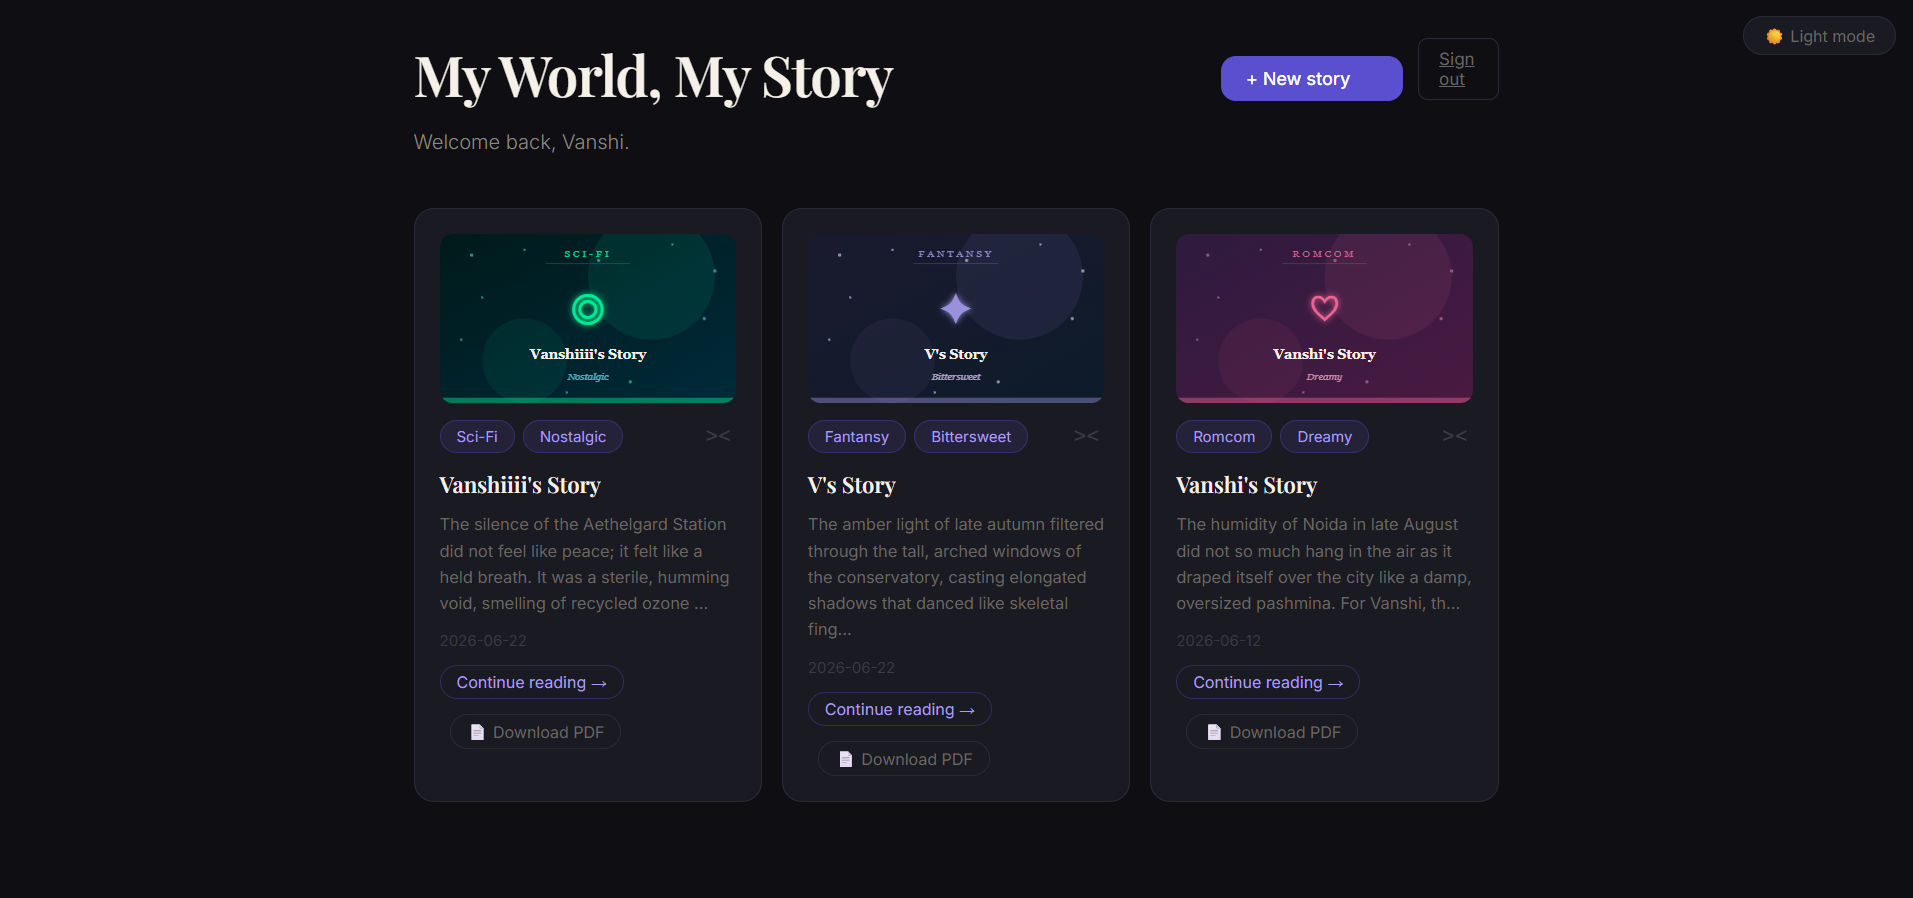
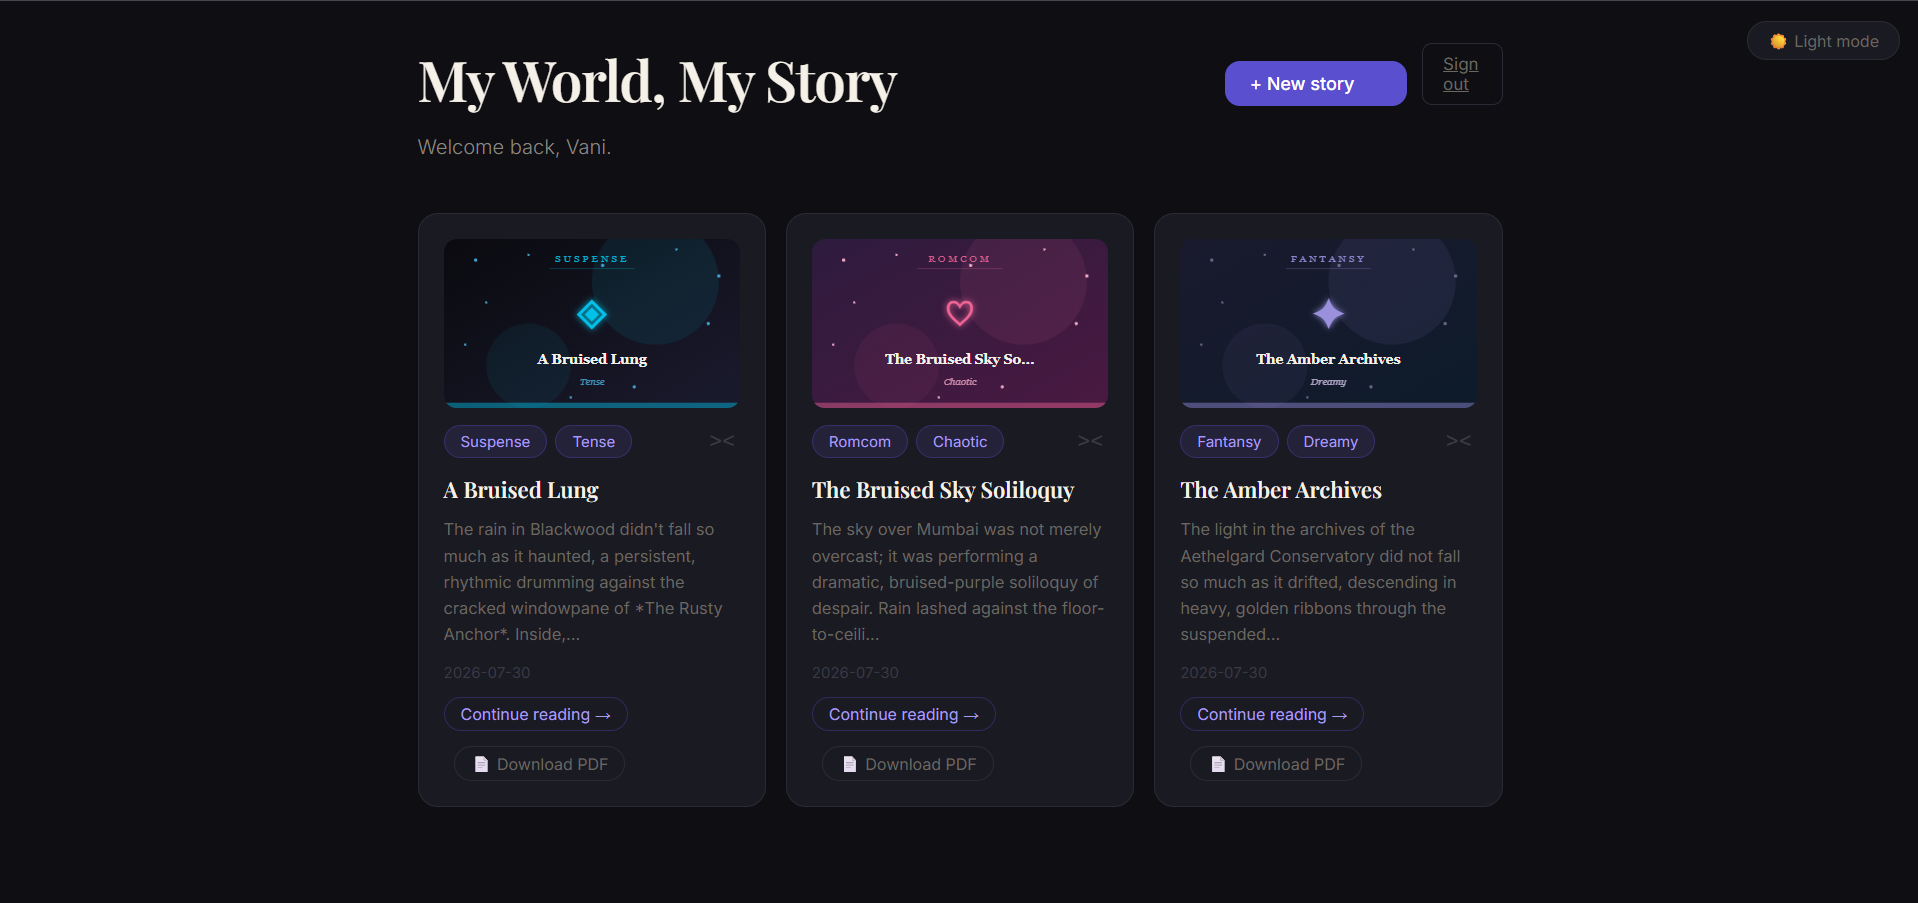
Rewrite README with live demo, problem statement and full docs

diff --git a/README.md b/README.md
@@ -1,83 +1,93 @@
 # My World, My Story 📖
 
-An AI-powered personalized story generator. Tell us about yourself and 
-the people in your life — we'll write your story.
+> You're not just a reader — you're the main character.
 
-## Features
+## 🌐 Live Demo
+👉 [my-world-my-story.onrender.com](https://my-world-my-story.onrender.com)
+
+## 💡 Why I Built This
+Most AI story generators feel disconnected — random characters, generic plots, nothing that actually feels like your life. I wanted something more personal. Something where the people you know become the cast, your quirks become plot devices, and you can actually shape where the story goes.
+
+So I built it.
+
+## ✨ What It Does
+Describe yourself, add real people from your life, pick a genre and mood — and the AI writes a personalized story starring you. Don't like where it's going? Throw in a plot twist, add details before the next chapter, or undo it entirely. Every story also gets a unique AI-generated literary title.
+
+## 🚀 Features
 
 **Story Generation**
 - Personalized stories based on real people in your life
-- Multiple genres: Romcom, Suspense, Fantasy, Sci-Fi, Horror, Mystery
-- Multiple narrator voices and custom moods
+- AI-generated literary titles for every story
+- 6 genres: Romcom, Suspense, Fantasy, Sci-Fi, Horror, Mystery
+- Multiple narrator voices and fully custom moods
 - Pre-details — tell the AI exactly what you want included
 - Random character generator
 
 **Reading Experience**
 - Continue your story chapter by chapter
 - Plot twist button for unexpected turns
-- Undo last chapter
-- Word lookup — get definitions without leaving the app
+- Undo last chapter if you change your mind
+- In-app word lookup — no tab switching needed
 - Light and dark theme toggle
 
 **Your Personal Space**
-- Login and signup system with secure password hashing
-- Personal dashboard with all your stories
+- Login and signup with secure password hashing
+- Personal dashboard with your full story library
 - Auto-generated story covers per genre and mood
 - Download any story as a formatted PDF
-- Delete stories you no longer want
+- Stories auto-save — always there when you come back
 
-## Tech Stack
+## 🛠 Tech Stack
 
-- **Backend:** Python, Flask, SQLite
-- **Frontend:** HTML, CSS, JavaScript
-- **AI:** OpenRouter API (google/gemma-4-31b-it)
-- **Database:** SQLite with user authentication
-- **PDF:** fpdf2
-- **Other:** Free Dictionary API for word lookup
+| Layer | Technology |
+|-------|-----------|
+| Backend | Python, Flask |
+| Database | SQLite |
+| Frontend | HTML, CSS, JavaScript |
+| AI | OpenRouter API (multi-model fallback) |
+| PDF Export | fpdf2 |
+| Auth | Werkzeug + Flask sessions |
+| Deployment | Render |
 
-## How to Run
 
-1. Clone the repo
-2. Create a virtual environment: `python -m venv venv`
-3. Activate it: `venv\Scripts\activate` (Windows)
-4. Install packages: `pip install -r requirements.txt`
-5. Create a `.env` file and add: `OPENROUTER_API_KEY=your_key_here`
-6. Run: `python app.py`
-7. Open `http://127.0.0.1:5000`
+## ⚙ Run Locally
 
-## Project Structure
+```bash
+git clone https://github.com/vanshianeja/my-world-my-story.git
+cd my-world-my-story
+python -m venv venv
+venv\Scripts\activate
+pip install -r requirements.txt
+```
 
+Create a `.env` file:
+OPENROUTER_API_KEY=your_key_here
+
+Then:
+```bash
+python app.py
+```
+
+Open `http://127.0.0.1:5000`
+
+## 📁 Project Structure
 my-world-my-story/
-
-├── app.py              # Flask server and all routes
-
-├── story_engine.py     # AI story generation logic
-
-├── word_lookup.py      # Dictionary API integration
-
-├── pdf_generator.py    # PDF export
-
-├── cover_generator.py  # SVG story cover generator
-
-├── database.py         # SQLite database setup
-
-├── templates/          # HTML pages
-
-│   ├── index.html      # Main story app
-
-│   ├── login.html      # Login page
-
-│   ├── signup.html     # Signup page
-
-│   └── dashboard.html  # Personal dashboard
-
-└── static/             # CSS and JavaScript
-
+├── app.py # Flask server and all routes
+├── story_engine.py # AI story generation + multi-model fallback
+├── word_lookup.py # Dictionary API integration
+├── pdf_generator.py # PDF export
+├── cover_generator.py # SVG story cover generator
+├── database.py # SQLite database setup
+├── templates/
+│ ├── index.html # Main story app
+│ ├── login.html # Login page
+│ ├── signup.html # Signup page
+│ └── dashboard.html # Personal dashboard
+└── static/
 ├── style.css
-
 └── script.js
 
-## Screenshots
+## 📸 Screenshots
 
 **Login**
 ![Login](static/screenshots/login.png)
@@ -86,11 +96,12 @@ my-world-my-story/
 ![Dashboard](static/screenshots/dashboard.png)
 
 **Story Form**
-![Form Top](static/screenshots/form-top.png)
+![Form](static/screenshots/form.png)
 
 **Story Screen**
-![Story](static/screenshots/story.png)
+![Story-top](static/screenshots/story_top.png)
+![Story-bottom](static/screenshots/story_bottom.png)
 
 ---
 
-Built with Python, Flask and a lot of late nights.
+*First solo project. Definitely not the last.*
